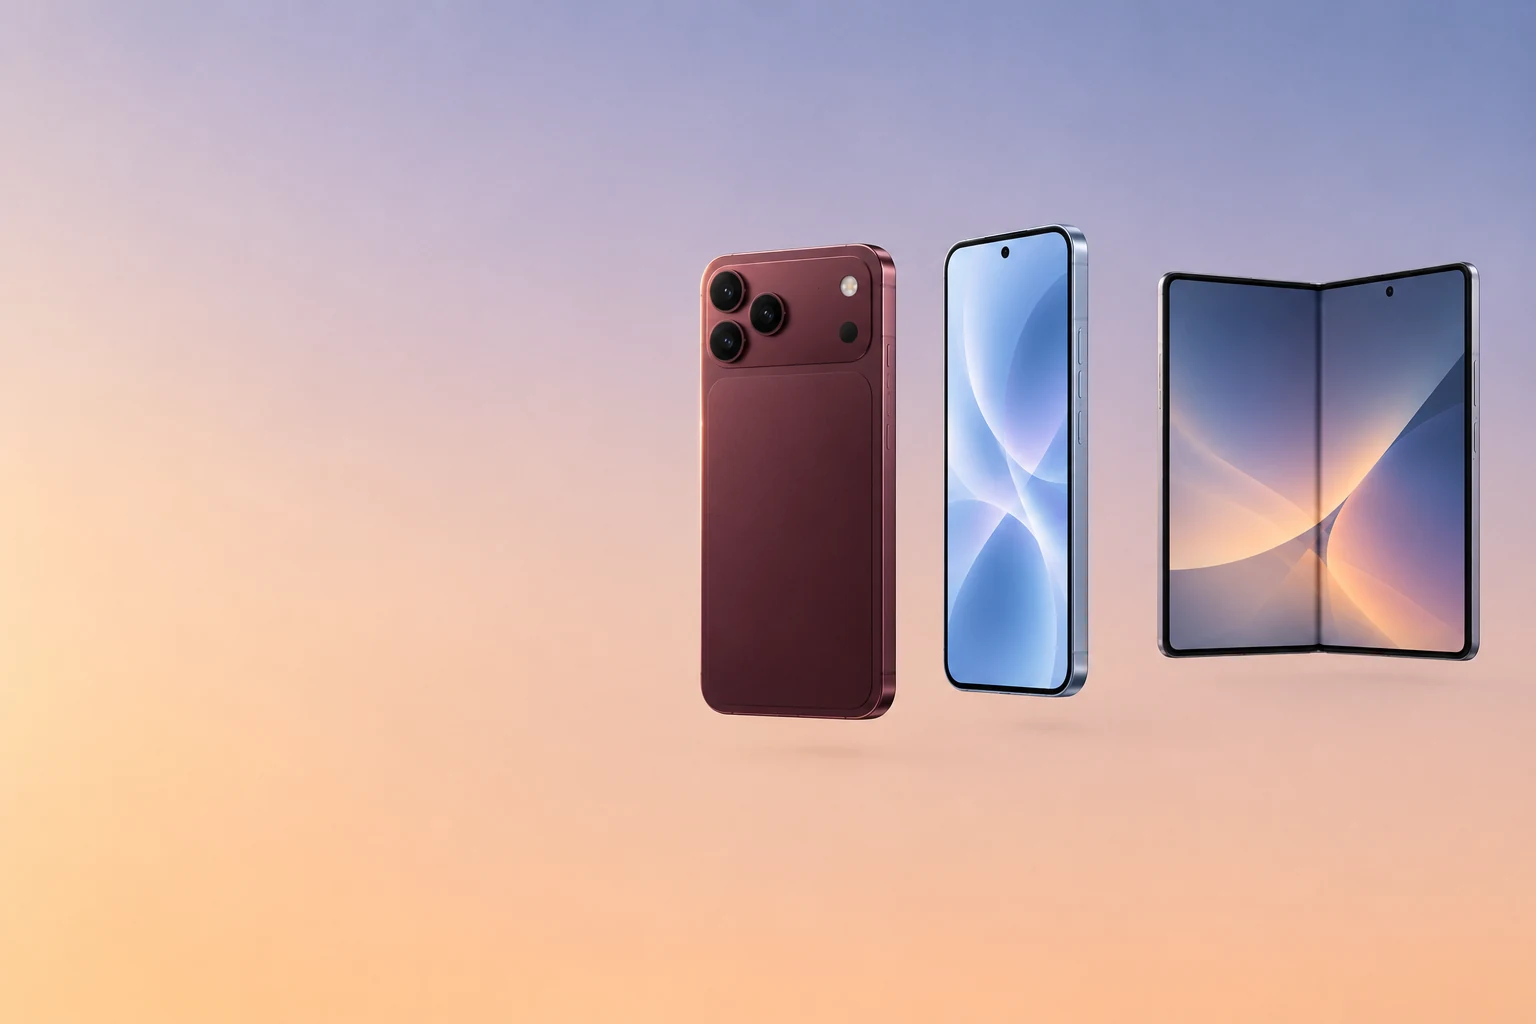
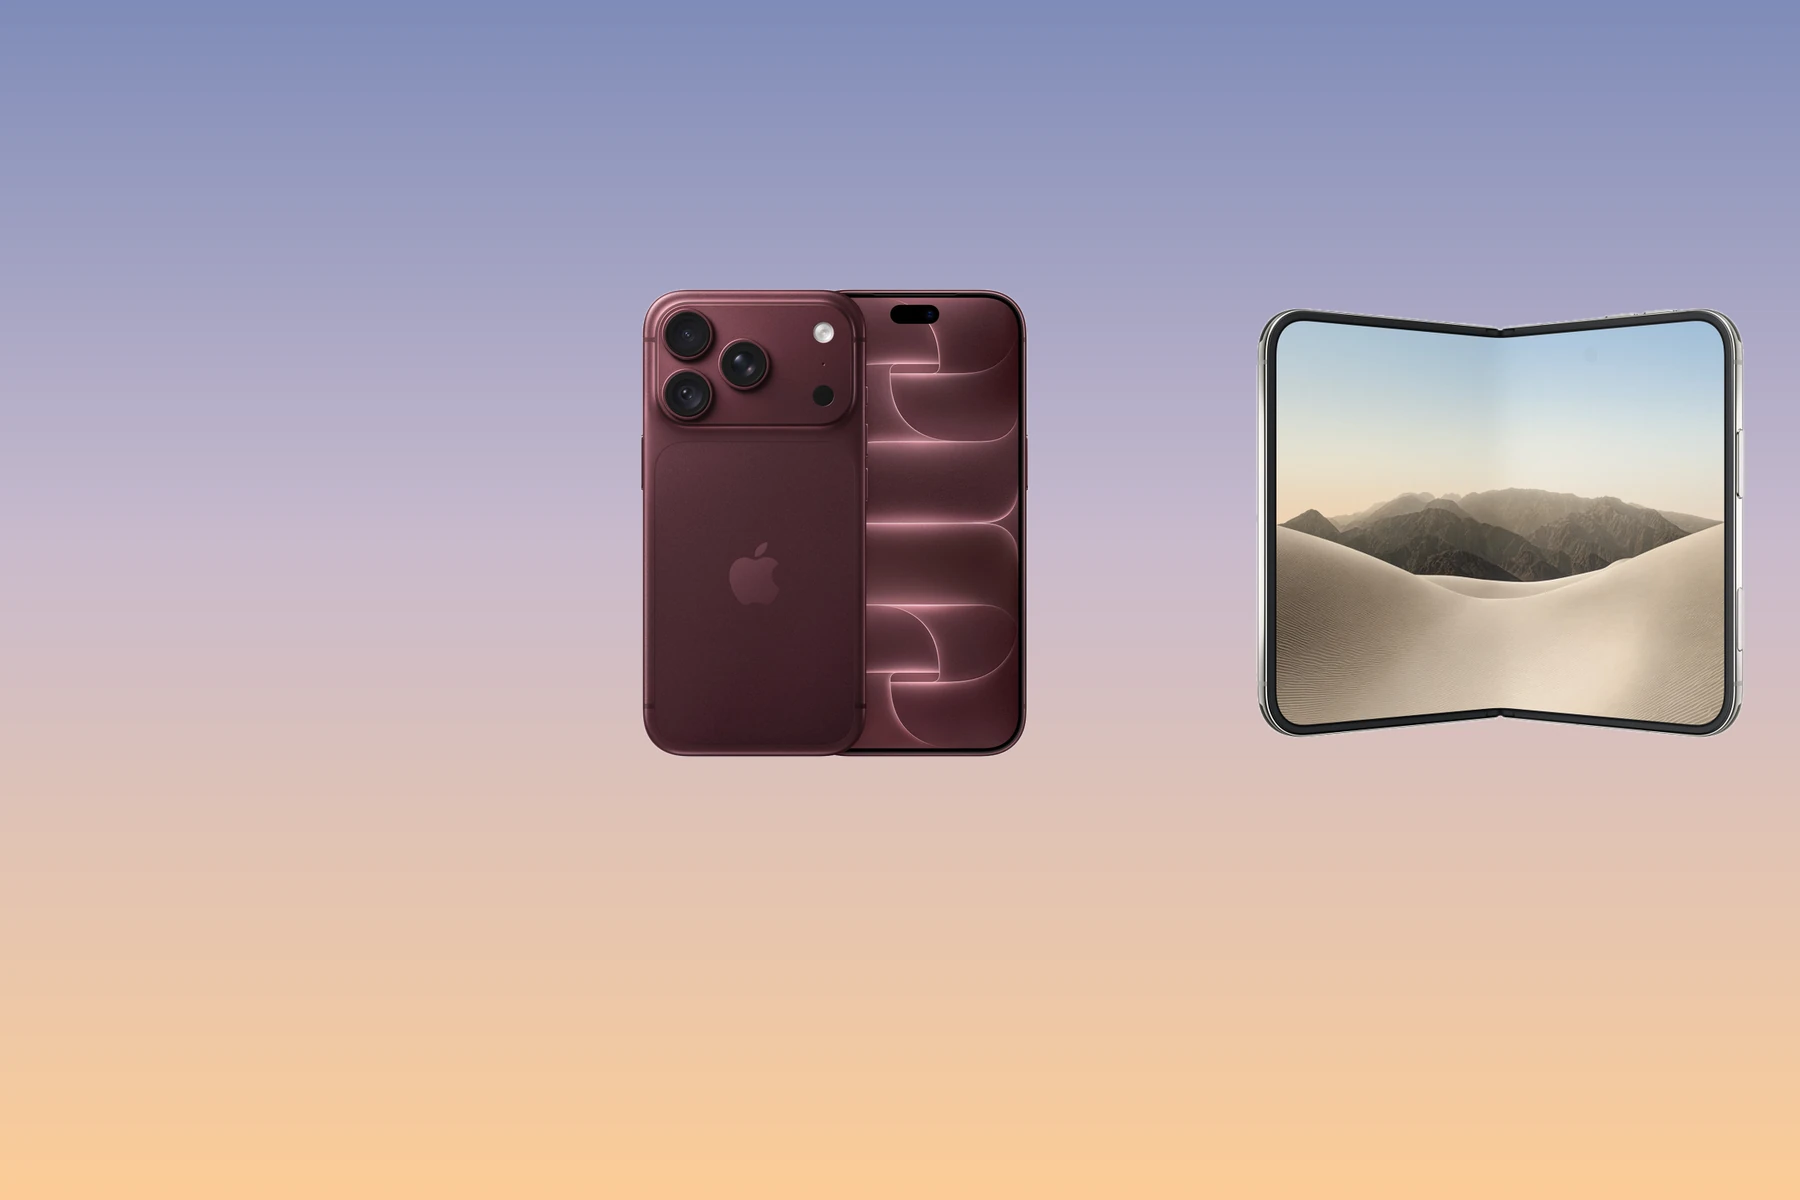
feat(баннер): линейка Apple собрана из настоящих пресс-кадров, а не сгенерирована
Генератор рисует iPhone по памяти, и память у него до нового поколения: в
первом заходе он выдал квадратный блок камер прошлых лет. У нас есть 22
пресс-кадра, поэтому задача не «нарисовать похожее», а вырезать настоящее.

Фон Apple снимает почти белым, но порог по яркости съел бы star white и
glacier — убираем только тот фон, что связан с краем кадра. Раскрытый Duo
берётся из gallery-3, где он стоит один: в finish-select его левую грань
перекрывает сложенный аппарат.

diff --git a/scripts/compose_preorder_banner.py b/scripts/compose_preorder_banner.py
@@ -1,0 +1,127 @@
+"""Баннер линейки Apple — собран из НАСТОЯЩИХ студийных снимков, не сгенерирован.
+
+Зачем так. Генератор рисует iPhone по памяти, а память у него до нового
+поколения: в первом заходе он выдал квадратный блок камер прошлых лет, во
+втором — правдоподобный, но всё равно выдуманный корпус. У нас же есть 22
+пресс-кадра самих устройств. Значит задача не «нарисовать похожее», а
+«вырезать настоящее и положить на свой фон» — и тогда аппараты точные, цвета
+точные, а композиция полностью наша.
+
+Фон Apple снимает почти белым (#F5F5F7), но просто отрезать по яркости нельзя:
+у Duo корпус star white, у glacier — светло-голубой, и порог съел бы сами
+аппараты. Поэтому убираем ТОЛЬКО тот фон, что связан с краем кадра
+(заливка от рамки), — внутренние светлые пиксели остаются нетронутыми.
+"""
+from __future__ import annotations
+
+import numpy as np
+from PIL import Image, ImageFilter
+from scipy import ndimage
+
+SRC = "product-photos/preorder-apple-2026"
+OUT = "frontend/public/assets/promos/apple-sept-2026.webp"
+
+W, H = 1800, 1200
+
+# Палитра снята пипеткой с экрана события — кадр и экран обязаны звучать в один
+# тон, иначе баннер выглядит вставленным из чужого проекта.
+TOP = (127, 140, 185)      # барвинок
+MID = (201, 187, 205)      # мов
+BOTTOM = (253, 205, 151)   # абрикос
+
+
+def cutout(path: str, tolerance: int = 26) -> Image.Image:
+    """Снимок -> RGBA без фона. Фоном считается только то, что связано с краем."""
+    im = Image.open(path).convert("RGB")
+    a = np.asarray(im).astype(np.int16)
+
+    # Цвет фона берём из углов — он там гарантированно фон.
+    corners = np.stack([a[0, 0], a[0, -1], a[-1, 0], a[-1, -1]])
+    bg = corners.mean(axis=0)
+
+    near = (np.abs(a - bg).max(axis=2) <= tolerance)
+
+    # Связность с краем: помечаем компоненты «похожего на фон» и оставляем в
+    # маске только те, что касаются рамки. Белый корпус внутри аппарата в
+    # маску не попадёт — он окружён тёмной гранью.
+    labels, count = ndimage.label(near)
+    border = set(labels[0].tolist()) | set(labels[-1].tolist()) \
+        | set(labels[:, 0].tolist()) | set(labels[:, -1].tolist())
+    border.discard(0)
+    background = np.isin(labels, list(border))
+
+    alpha = np.where(background, 0, 255).astype(np.uint8)
+    out = im.convert("RGBA")
+    mask = Image.fromarray(alpha, mode="L")
+    # Лёгкое размытие края: жёсткая маска по порогу даёт «пилу» на глянцевой
+    # грани, и аппарат читается как наклейка.
+    mask = mask.filter(ImageFilter.GaussianBlur(0.8))
+    out.putalpha(mask)
+    return out.crop(out.getbbox())
+
+
+def gradient() -> Image.Image:
+    """Вертикальная заливка барвинок -> мов -> абрикос."""
+    y = np.linspace(0.0, 1.0, H)[:, None]
+    top, mid, bot = (np.array(c, dtype=float) for c in (TOP, MID, BOTTOM))
+    # Две линейные части со стыком на 45 % высоты: ровно там, где у кадра
+    # проходит линия аппаратов, и переход не читается полосой.
+    k = 0.45
+    lower = y / k
+    upper = (y - k) / (1 - k)
+    a = np.where(y < k, top + (mid - top) * np.clip(lower, 0, 1),
+                 mid + (bot - mid) * np.clip(upper, 0, 1))
+    field = np.repeat(a[:, None, :], W, axis=1).astype(np.uint8)
+    return Image.fromarray(field, mode="RGB").convert("RGBA")
+
+
+def scaled(dev: Image.Image, height: int) -> Image.Image:
+    return dev.resize((max(1, round(dev.width * height / dev.height)), height), Image.LANCZOS)
+
+
+#: Где начинается зона аппаратов и где она кончается. Левее — пустой фон под
+#: заголовок, который приложение кладёт поверх картинки (HeroBanner рисует
+#: текст в левых 62 % и затемнение снизу, поэтому низ слева тоже держим чистым).
+FIELD_LEFT = int(W * 0.355)
+FIELD_RIGHT = int(W * 0.97)
+
+
+def main() -> None:
+    canvas = gradient()
+
+    # Кадр finish-select показывает ПАРУ: аппарат спинкой и он же экраном.
+    # Это собственная манера Apple, ломать её незачем.
+    burgundy = cutout(f"{SRC}/iphone18pro-burgundy.jpg")
+
+    # Раскрытый Duo берём из gallery-3: там он стоит ОДИН. В кадрах
+    # finish-select рядом лежит сложенный аппарат, он перекрывает левую грань
+    # раскрытого — и любой срез оставлял либо осколок соседа, либо плоско
+    # обрубленный корпус. Кадр составной (три аппарата столбиком), поэтому
+    # вырезаем средний по вертикали.
+    duo_src = Image.open(f"{SRC}/duo-open-standalone.jpg").convert("RGB")
+    dw, dh = duo_src.size
+    duo_src.crop((0, int(dh * 0.34), dw, int(dh * 0.72))).save("_duo_tmp.png")
+    duo = cutout("_duo_tmp.png")
+
+    # Высота подобрана так, чтобы два объекта ВЛЕЗЛИ с настоящим зазором.
+    # Третий сюда не помещается: при пустой левой трети три пары по 0,83 и 1,54
+    # ширины от высоты требуют больше кадра, чем есть, и начинают перекрываться —
+    # ровно то, из-за чего первый вариант выглядел тесным.
+    height = 470
+    a = scaled(burgundy, height)
+    b = scaled(duo, int(height * 0.92))
+
+    span = FIELD_RIGHT - FIELD_LEFT
+    gap = span - a.width - b.width
+    assert gap > 60, f"аппараты не помещаются с зазором: {gap}px"
+
+    top = int(H * 0.24)
+    canvas.alpha_composite(a, (FIELD_LEFT, top))
+    canvas.alpha_composite(b, (FIELD_LEFT + a.width + gap, top + (a.height - b.height) // 2))
+
+    canvas.convert("RGB").save(OUT, "WEBP", quality=90, method=6)
+    print(f"{OUT}: {Image.open(OUT).size}, зазор между аппаратами {gap}px")
+
+
+if __name__ == "__main__":
+    main()
